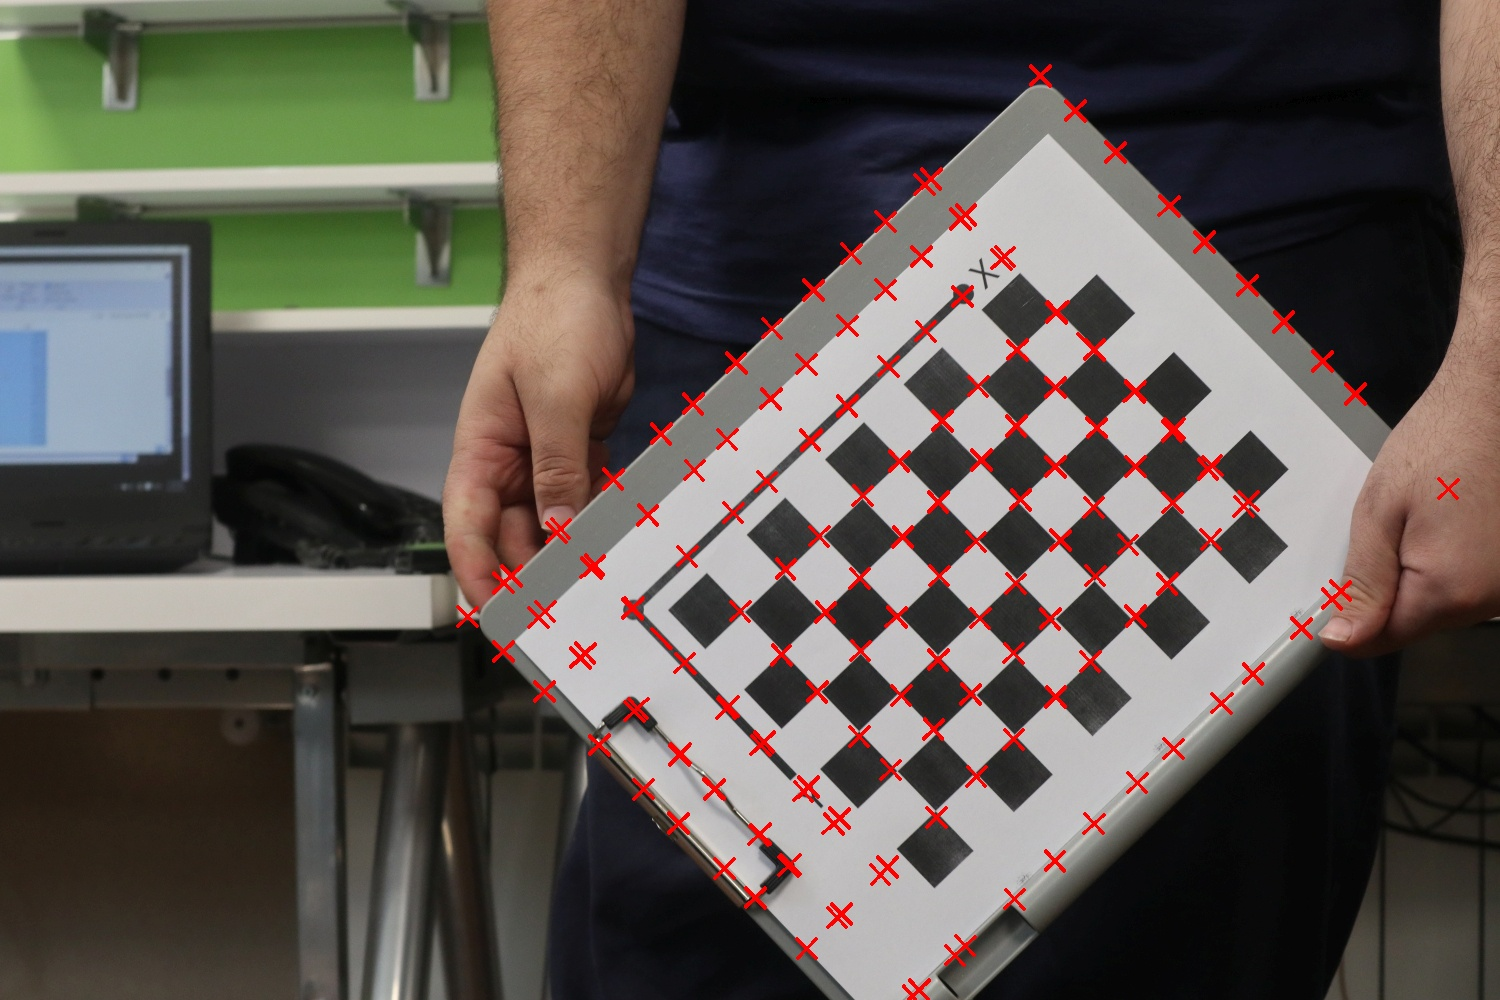
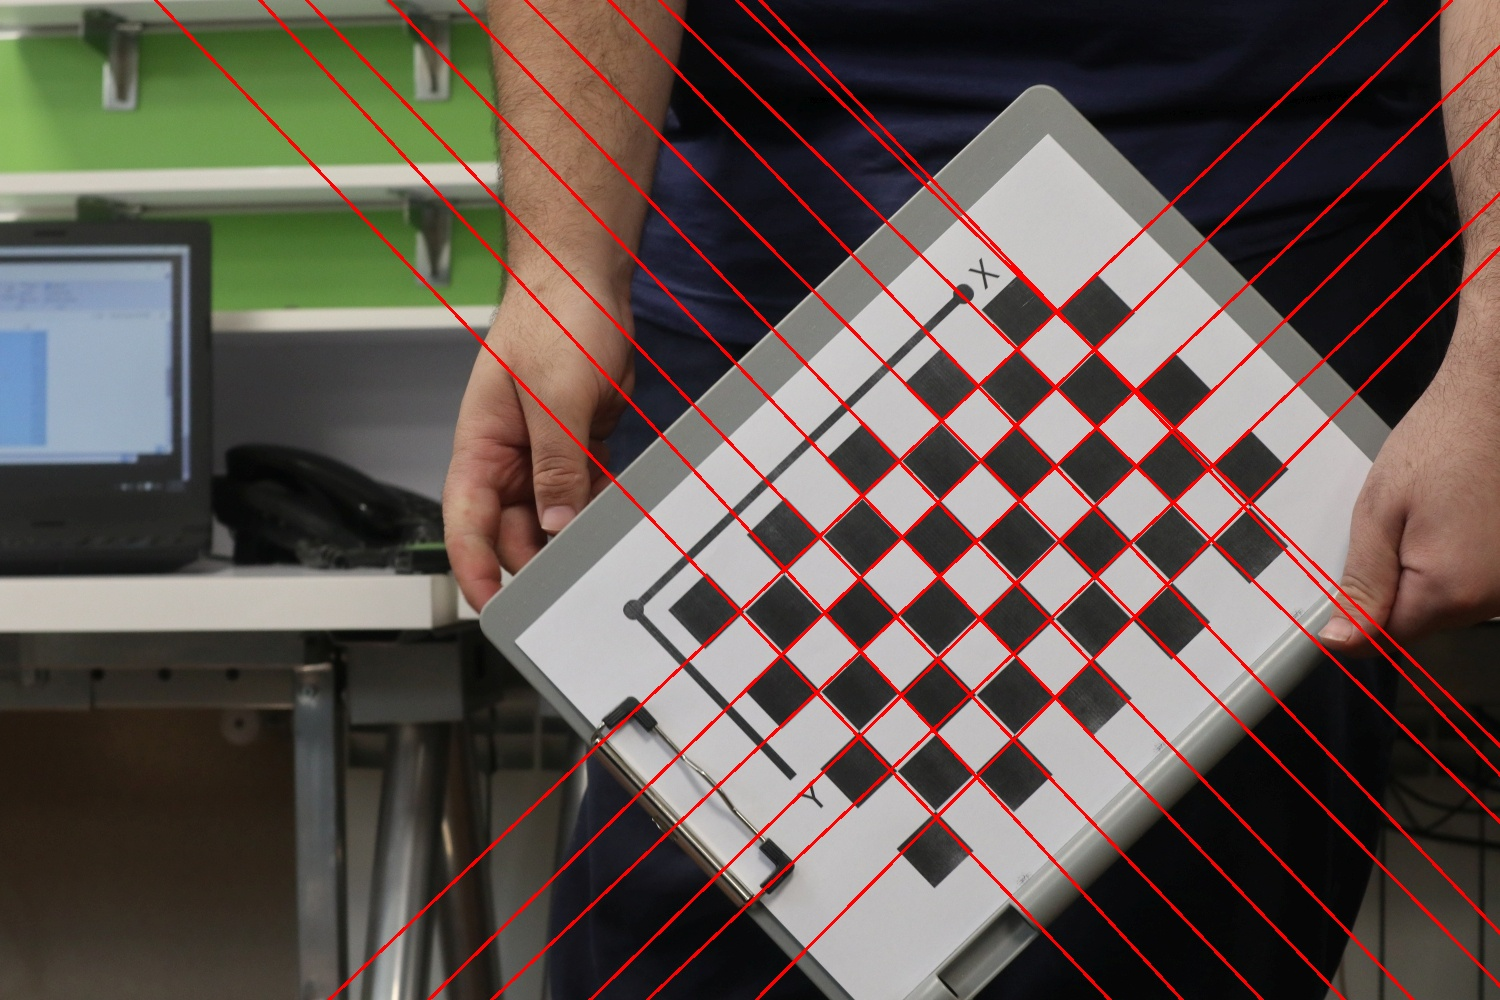
finding dots for im02 completed - needs parameter modification

diff --git a/HW3/q1.py b/HW3/q1.py
@@ -82,10 +82,10 @@ def convertToXY(rho, theta, M, N):
     else:
         print("Not found!")        
 
-    pt1 *= np.array([M//2, -N//2])
-    pt1 += np.array([M//2, N//2])
-    pt2 *= np.array([M//2, -N//2])
-    pt2 += np.array([M//2, N//2])
+    pt1 *= np.array([N//2, -M//2])
+    pt1 += np.array([N//2, M//2])
+    pt2 *= np.array([N//2, -M//2])
+    pt2 += np.array([N//2, M//2])
     
     return (pt1.astype(int), pt2.astype(int))
 
@@ -122,18 +122,18 @@ thr = 1e-2
 
 #utl.showImg(img_edges, 0.8)
 
-"""
+
 
 print("Finding hough space representation ...")
 voting_mat, len_angle_spc = houghTran(img_edges, len_num, angle_num, thr)
 hough_space = utl.scaleIntensities(voting_mat)
 
-np.save('voting.npy', voting_mat)
-np.save('space.npy', len_angle_spc)
-"""
+#np.save('voting.npy', voting_mat)
+#np.save('space.npy', len_angle_spc)
 
-voting_mat = np.load('voting.npy')
-len_angle_spc = np.load('space.npy')
+
+#voting_mat = np.load('voting.npy')
+#len_angle_spc = np.load('space.npy')
 #print(len(np.nonzero(voting_mat >= 0.3*np.amax(voting_mat))[0]))
 
 max_indices = utl.findLocalMax(voting_mat, 0.4*np.amax(voting_mat), 0.1)
@@ -175,74 +175,104 @@ for i in range(max_indices.shape[1]):
         theta = len_angle_spc[max_indices[0, i], max_indices[1, i], 1]
         rhos.append(rho)
         thetas.append(theta)
-        
-# Approach 1 - using line colors:
-"""
-# try to remove lines that are not in chess area, using their color
-img_gray = cv2.cvtColor(img, cv2.COLOR_BGR2GRAY)
+
+rhos = np.array(rhos)
+thetas = np.array(thetas)
+
+#print(rhos)
+#print(thetas)
+img_hsv = cv2.cvtColor(img, cv2.COLOR_BGR2HSV)
+img_vel = img_hsv[:, :, -1]
+
+thetas_degree = (thetas / (np.pi) * 180)
 final_rhos = []
 final_thetas = []
-for j in range(len(thetas)):
-    tmp_img = np.zeros((img.shape[0], img.shape[1]), dtype=img.dtype)
-    flag = False
-    pt1, pt2 = convertToXY(rhos[j], thetas[j], N, M)
-    cv2.line(tmp_img, (pt1[0], pt1[1]), (pt2[0], pt2[1]), 255, 1)
+for i in range(len(thetas)):
+    tmp_img = np.zeros((M, N), dtype=img.dtype)
     
-    line_pixels = np.nonzero(tmp_img == 255)
+    pt1, pt2 = convertToXY(rhos[i], thetas[i], M, N)
+    cv2.line(tmp_img, (pt1[0], pt1[1]), (pt2[0], pt2[1]), 255, 1)
+
+    shifting_angle = 0
+    if thetas_degree[i] >= 0 and thetas_degree[i] <= 90:
+        # first quarter:
+        shifting_angle = -thetas_degree[i]
+    elif thetas_degree[i] >= 90 and thetas_degree[i] <= 180:
+        # second quarter
+        shifting_angle = 180-thetas_degree[i]
+    elif thetas_degree[i] >= -180 and thetas_degree[i] <= -90:
+        # third quarter
+        shifting_angle = -180-thetas_degree[i]
+    else:
+        # fourth quarter:
+        shifting_anlge = -thetas_degree[i]
+
+    # required rotation for aligning lines vertical
+    rotation_mat = cv2.getRotationMatrix2D((N//2, M//2), shifting_angle * 1.35, 1)
+    
+    
+    tmp_img_rot = cv2.warpAffine(tmp_img, rotation_mat, (N, M), cv2.INTER_LINEAR, cv2.BORDER_CONSTANT)
+    img_vel_rot = cv2.warpAffine(img_vel, rotation_mat, (N, M), cv2.INTER_LINEAR, cv2.BORDER_CONSTANT)
+
+    line_pixels = np.nonzero(tmp_img_rot == 255)
     x_pixels = line_pixels[0]
     y_pixels = line_pixels[1]
     
     # check neighoubers for line_len and neigh_num each side
-    line_len = 70
-    neigh_num = 100
-    chess_square_thr = 150
+    line_len = 20
+    neigh_num = 20
+    chess_square_thr = 120
+    voting_thr = 20
+    votes = 0
     
-    for i in range(len(x_pixels)-line_len):
-        xi = x_pixels[i]
-        yi = y_pixels[i]    
+    for j in range(len(x_pixels)-line_len):
+        xi = x_pixels[j]
+        yi = y_pixels[j]    
         
         left_equivalent_pixel = 0
         right_equivalent_pixel = 0
         total_num = neigh_num * line_len
         for k in range(line_len):
             if yi-neigh_num >= 0 and yi+neigh_num < N:
-                left_equivalent_pixel += np.sum(img_gray[x_pixels[i+k], yi-neigh_num:yi])
-                right_equivalent_pixel += np.sum(img_gray[x_pixels[i+k], yi:yi+neigh_num])
+                left_equivalent_pixel += np.sum(img_vel_rot[x_pixels[j+k], yi-neigh_num:yi])
+                right_equivalent_pixel += np.sum(img_vel_rot[x_pixels[j+k], yi:yi+neigh_num])
             else:
                 total_num -= neigh_num
         if total_num == neigh_num * line_len:
             if abs(left_equivalent_pixel - right_equivalent_pixel) / total_num >= chess_square_thr:
-                print("True, line passes chess area!")
-                print(left_equivalent_pixel / total_num, 
-                      right_equivalent_pixel / total_num)
+                votes += 1
                 flag = True
-                break
-    if flag:
-        final_rhos.append(rhos[j])
-        final_thetas.append(thetas[j])
-"""
-# Approach 2 - using intersection points:
-final_rhos = []
-final_thetas = []
 
-neigh_num = 10
+    if votes >= voting_thr:
+        print(votes)
+        print("True, line passes chess area!")
+        print(left_equivalent_pixel / total_num, 
+              right_equivalent_pixel / total_num)
+        final_rhos.append(rhos[i])
+        final_thetas.append(thetas[i])
 
-print("><><><><><><><><><><><><><><><><><")
-for i in range(len(thetas)):
-    tmp_img1 = np.zeros((img.shape[0], img.shape[1]), dtype=img.dtype)
-    pt1, pt2 = convertToXY(rhos[i], thetas[i], N, M)
+#print(final_rhos)
+#print(final_thetas)
+#print("Done!")
+
+img_cop = np.copy(img)
+for i in range(len(final_thetas)):
+    pt1, pt2 = convertToXY(final_rhos[i], final_thetas[i], M, N)
+    cv2.line(img_cop, (pt1[0], pt1[1]), (pt2[0], pt2[1]), (0, 0, 255), 2)
+
+cv2.imwrite('lines-found.jpg', img_cop)
+
+print("<><><><><><><><><><><><><><><><>")
+for i in range(len(final_thetas)):
+    tmp_img1 = np.zeros((M, N), dtype=img.dtype)
+    pt1, pt2 = convertToXY(final_rhos[i], final_thetas[i], M, N)
     cv2.line(tmp_img1, (pt1[0], pt1[1]), (pt2[0], pt2[1]), 255, 1)
-    x_pixels1, y_pixels1 = np.nonzero(tmp_img1 == 255)
     
-    #utl.showImg(tmp_img1, 0.5, 'tmp 1', False)
-
-    for j in range(len(thetas)):
+    for j in range(len(final_thetas)):
         if j != i:
-            #print(i, j)
-            tmp_img2 = np.zeros((img.shape[0], img.shape[1]), dtype=img.dtype)
-            pt3, pt4 = convertToXY(rhos[j], thetas[j], N, M)
+            tmp_img2 = np.zeros((M, N), dtype=img.dtype)
+            pt3, pt4 = convertToXY(final_rhos[j], final_thetas[j], M, N)
             cv2.line(tmp_img2, (pt3[0], pt3[1]), (pt4[0], pt4[1]), 255, 1)
-            x_pixels2, y_pixels2 = np.nonzero(tmp_img2 == 255)
             
             # finding intersection:
             x_intr, y_intr = np.nonzero(tmp_img1 & tmp_img2)
@@ -252,72 +282,12 @@ for i in range(len(thetas)):
                 if x_intr.size <= 0:
                     # no intersection can be found
                     continue
-                # found intersection:
-            x_index1 = np.nonzero(x_pixels1 == x_intr[0])[0]
-            y_index1 = np.nonzero(y_pixels1 == y_intr[0])[0]
-            
-            x_index2 = np.nonzero(x_pixels2 == x_intr[0])[0]
-            y_index2 = np.nonzero(y_pixels2 == y_intr[0])[0]
-            
-            if x_index1[0] - neigh_num < 0:    
-                x_start1 = x_pixels1[0]
-            else:
-                x_start1 = x_pixels1[x_index1[0] - neigh_num]
-            
-            if y_index1[0] - neigh_num < 0:
-                y_start1 = y_pixels1[0]
-            else:                    
-                y_start1 = y_pixels1[y_index1[0] - neigh_num]
-            
-            if x_index1[0] + neigh_num >= len(x_pixels1):
-                x_end1 = x_pixels1[-1]
-            else:
-                x_end1 = x_pixels1[x_index1[0] + neigh_num]
-            
-            if y_index1[0] + neigh_num >= len(y_pixels1):
-                y_end1 = y_pixels1[-1]
-            else:
-                y_end1 = y_pixels1[y_index1[0] + neigh_num]
 
-            ######################################
-            
-            if x_index2[0] - neigh_num < 0:    
-                x_start2 = x_pixels2[0]
-            else:
-                x_start2 = x_pixels2[x_index2[0] - neigh_num]
-            
-            if y_index2[0] - neigh_num < 0:
-                y_start2 = y_pixels2[0]
-            else:                    
-                y_start2 = y_pixels2[y_index2[0] - neigh_num]
-            
-            if x_index2[0] + neigh_num >= len(x_pixels2):
-                x_end2 = x_pixels2[-1]
-            else:
-                x_end2 = x_pixels2[x_index2[0] + neigh_num]
-            
-            if y_index2[0] + neigh_num >= len(y_pixels2):
-                y_end2 = y_pixels2[-1]
-            else:
-                y_end2 = y_pixels2[y_index2[0] + neigh_num]
-                
-            #cv2.rectangle(img, (y_start[0], x_start[0]), (y_end[0], x_end[0]), (0,0,255))
-            cv2.line(img, (y_start1, x_start1), (y_end1, x_end1), (0, 0, 255), 2)
-            cv2.line(img, (y_start2, x_start2), (y_end2, x_end2), (0, 0, 255), 2)
-            #print(x_index1[0], y_index1[0])
-            #print(x_index2[0], y_index2[0])
-            #print("-------------------")
-            #cv2.circle(img, (y_intr[0], x_intr[0]), 5, (0, 0, 255), -1)
+            cv2.circle(img, (y_intr[0], x_intr[0]), 5, (0, 0, 255), -1)
 
-                    
+
+cv2.imwrite('dots-found.jpg', img)
+
+print("Done!")                 
 #utl.showImg(tmp_img1, 0.5)
 
-"""
-for i in range(len(final_thetas)):
-    pt1, pt2 = convertToXY(final_rhos[i], final_thetas[i], N, M)
-    cv2.line(img, (pt1[0], pt1[1]), (pt2[0], pt2[1]), (0, 0, 255), 2)
-"""
-
-
-print("Done!")
-cv2.imwrite('lines-found.jpg', img)
